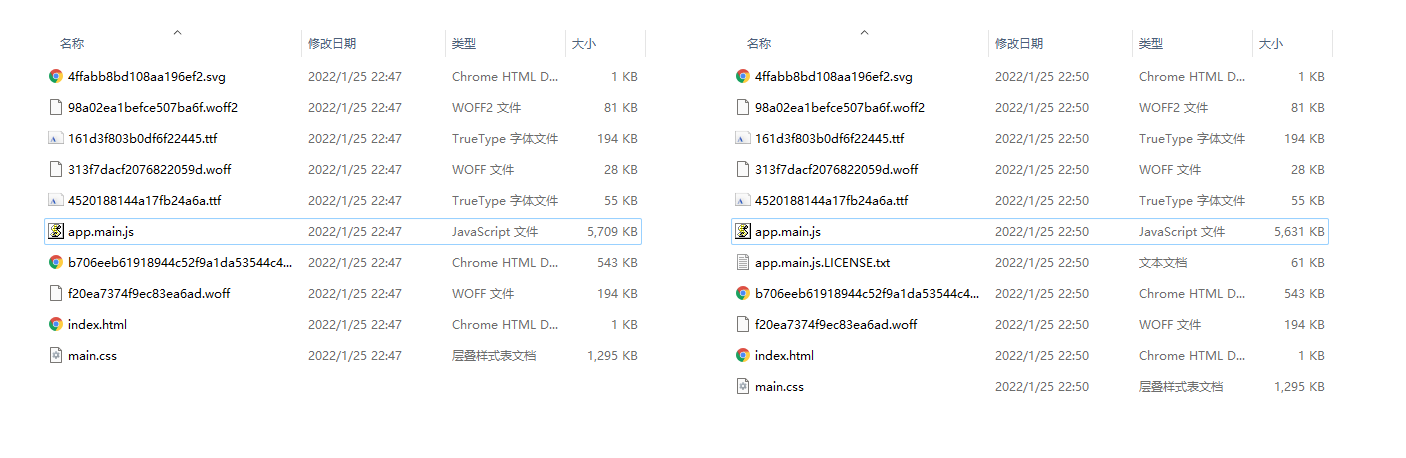
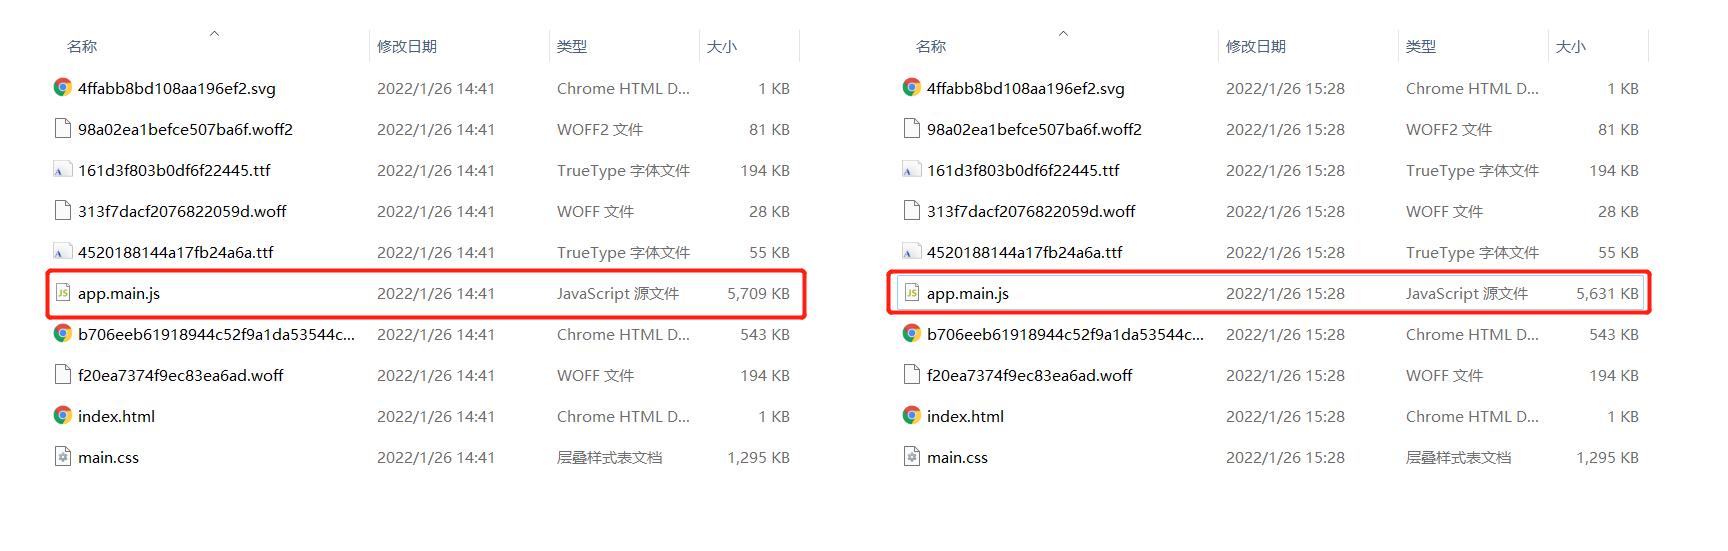
写文档

diff --git a/webpack.config.js b/webpack.config.js
@@ -8,6 +8,7 @@ const TerserPlugin = require("terser-webpack-plugin");
 
 module.exports = {
   mode: "development",
+  // devtool: "source-map",
   entry: "./src/index.js",
   output: {
     filename: "app.[name].js",
@@ -25,15 +26,23 @@ module.exports = {
   //   },
   // },
 
-  optimization: {
-    minimize: true,
-    minimizer: [
-      new TerserPlugin({
-        minify: TerserPlugin.uglifyJsMinify,
-        terserOptions: {},
-      }),
-    ],
-  },
+  // optimization: {
+  //   minimize: true,
+  //   minimizer: [
+  //     new TerserPlugin({
+  //       minify: (file, sourceMap) => {
+  //         const uglifyJsOptions = {
+  //           annotations: true, // 忽略注释
+  //           compress: {
+  //             drop_console: true, // 去掉console
+  //             dead_code: true,
+  //           },
+  //         };
+  //         return require("uglify-js").minify(file, uglifyJsOptions);
+  //       },
+  //     }),
+  //   ],
+  // },
 
   module: {
     rules: [

diff --git a/src/index.js b/src/index.js
@@ -3,15 +3,10 @@ import VueRouter from "vue-router";
 import ElementUI from "element-ui";
 import ViewD from "view-design";
 import Vant from "vant";
-import Antd from "ant-design-vue";
 import _ from "lodash";
 
-
-
 import "element-ui/lib/theme-chalk/index.css";
-import "view-design/dist/styles/iview.css";
 import "vant/lib/index.css";
-import "ant-design-vue/dist/antd.css";
 
 import App from "./app.vue";
 
@@ -21,14 +16,6 @@ import routes from "./router";
 
 Vue.use(VueRouter);
 Vue.use(ElementUI);
-let a = 0;
-for (let i = 0; i < 10; i++) {
-  a = i;
-  for (let i = 0; i < 100000000; i++) {
-    a = i;
-  }
-}
-console.log("a:", a);
 
 const router = new VueRouter({
   routes,

diff --git a/public/index.html b/public/index.html
@@ -1,14 +1,12 @@
 <!DOCTYPE html>
 <html lang="en">
-<head>
-    <meta charset="UTF-8">
-    <meta http-equiv="X-UA-Compatible" content="IE=edge">
-    <meta name="viewport" content="width=device-width, initial-scale=1.0">
-    <title>Vue Demo
-
-    </title>
-</head>
-<body>
+  <head>
+    <meta charset="UTF-8" />
+    <meta http-equiv="X-UA-Compatible" content="IE=edge" />
+    <meta name="viewport" content="width=device-width, initial-scale=1.0" />
+    <title>Vue Demo</title>
+  </head>
+  <body>
     <div id="app"><div class="loading">加载...</div></div>
-</body>
+  </body>
 </html>

diff --git a/webpack 打包优化.md b/webpack 打包优化.md
@@ -102,13 +102,159 @@ module.exports = {
 
 #### 文件压缩
 
-webpack 在对文件进行合并的同时会简单的将文件压缩一下，文件体积会略微缩小一点。但是 js 代码中的注释等内容并没有清楚，所以我们还能够再压缩一下。
+webpack 在对文件进行合并的同时会自动的将文件压缩一下，文件体积会大幅缩小。但是 js 代码中的注释等内容并没有清楚，所以我们还能够再压缩一下。
+
+这里需要启用 webpack 的另一个插件 [TerserWebpackPlugin](https://webpack.docschina.org/plugins/terser-webpack-plugin/) 。webpack 5 会自带这个插件对文件进行压缩，但是如果我们想要自定义压缩文件的话，还需要安装这个插件。
+
+```diff
+module.exports = {
+  // 省略其他配置...
+  entry: "./src/index.js",
+  output: {
+    filename: "app.[hash].js",
+    path: path.resolve(__dirname, "dist"),
+  },
++  optimization: {
++    minimize: true,
++    minimizer: [
++      new TerserPlugin({
++        minify: (file, sourceMap) => {
++          const uglifyJsOptions = {
++            annotations: true, // 忽略注释
++            compress: {
++              drop_console: true, // 去掉console
++              dead_code: true,
++            },
++          };
++          return require("uglify-js").minify(file, uglifyJsOptions);
++        },
++      }),
++    ],
++  },
+  // 省略其他配置...
+};
+```
+
+![4.png](./webpack-image/4.png)
+
+这里只是演示一下自定义压缩的使用，如果我们不需要那么强的限制，可以在使用 new TerserPlugin() 不传任何参数即可。
 
 #### 源代码映射功能
 
+webpack 提供了源代码映射的功能 [devtool](https://webpack.docschina.org/configuration/devtool/)，可以帮助我们在调试工具中找到打包前的代码，方便我们调试。但是源代码映射功能也带来了一个问题，就是开启了这个功能后，我们的打包后的文件会多出源代码映射的文件，这个文件的体积很大，会造成我们打包后整体文件比没打包之前还要大。所以对于源代码映射功能，是否开启，如何开启就有了限制。
+
+一般情况下，开发环境和测试环境，建议 devtool = "source-map"，发布环境禁用该功能。
+
+> devtool 还有很多种模式，目前个人认为 source-map 是一种比较好的模式，其他模式大家可以去官网了解。
+
 ### 文件加载
 
+上面是项目在打包过程中的一些优化的地方。在项目运行的浏览器端，我们对文件的加载速度也是有很大的需求的。
+
 #### CDN
+
+我们常用能够提高文件加载速度的方式就是 CDN 了。CDN 能够让客户端找到距离最近的服务器去加载文件。在前端项目中，一般情况下我们都是第三方库采用 CDN 模式，自己项目的代码，则存在自己的服务器上。
+
+```js
+// /src/index.js
+
+import Vue from "vue";
+import VueRouter from "vue-router";
+import ElementUI from "element-ui";
+import Vant from "vant";
+import _ from "lodash";
+
+import "element-ui/lib/theme-chalk/index.css";
+import "vant/lib/index.css";
+import "ant-design-vue/dist/antd.css";
+
+import App from "./app.vue";
+
+import "./style.less";
+
+import routes from "./router";
+
+Vue.use(VueRouter);
+Vue.use(ElementUI);
+
+const router = new VueRouter({
+  routes,
+});
+
+const vm = new Vue({ router, render: (h) => h(App) }).$mount("#app");
+```
+
+```html
+<!DOCTYPE html>
+<html lang="en">
+  <head>
+    <meta charset="UTF-8" />
+    <meta http-equiv="X-UA-Compatible" content="IE=edge" />
+    <meta name="viewport" content="width=device-width, initial-scale=1.0" />
+    <title>Vue Demo</title>
+  </head>
+  <body>
+    <div id="app"><div class="loading">加载...</div></div>
+  </body>
+</html>
+```
+
+我在测试项目中引用了一些第三方库，现在第三方库全都采用 CDN 模式加载。
+
+```diff
+// ./src/index.js
+
+-  import Vue from "vue";
+-  import VueRouter from "vue-router";
+-  import ElementUI from "element-ui";
+-  import Vant from "vant";
+  import _ from "lodash";
+
+-  import "element-ui/lib/theme-chalk/index.css";
+-  import "vant/lib/index.css";
+-  import "ant-design-vue/dist/antd.css";
+
+  import App from "./app.vue";
+
+  import "./style.less";
+
+  import routes from "./router";
+
+  Vue.use(VueRouter);
+-  Vue.use(ElementUI);
+
+  const router = new VueRouter({
+    routes,
+  });
+
+  const vm = new Vue({ router, render: (h) => h(App) }).$mount("#app");
+```
+
+```diff
+  <!DOCTYPE html>
+  <html lang="en">
+    <head>
+      <meta charset="UTF-8" />
+      <meta http-equiv="X-UA-Compatible" content="IE=edge" />
+      <meta name="viewport" content="width=device-width, initial-scale=1.0" />
+      <title>Vue Demo</title>
++      <script src="https://cdn.jsdelivr.net/npm/vue@2.6.14/dist/vue.js"></script>
++      <script src="https://unpkg.com/vue-router/dist/vue-router.js"></script>
++      <link rel="stylesheet" href="https://unpkg.com/element-ui/lib/theme-chalk/index.css" />
++      <script src="https://unpkg.com/element-ui/lib/index.js"></script>
++      <link rel="stylesheet" href="https://cdn.jsdelivr.net/npm/vant@2.12/lib/index.css" />
++      <script src="https://cdn.jsdelivr.net/npm/vant@2.12/lib/vant.min.js"></script>
+    </head>
+    <body>
+      <div id="app"><div class="loading">加载...</div></div>
+    </body>
+  </html>
+
+```
+
+![5.png](./webpack-image/5.png)
+
+当然我们也可以建立自己的 CDN 服务器，把我们项目打包后的文件放在自己的 CDN 服务器上，这样可能会比这些第三方库提供的 CDN 要更可靠点。
 
 #### defer 与 async
 
